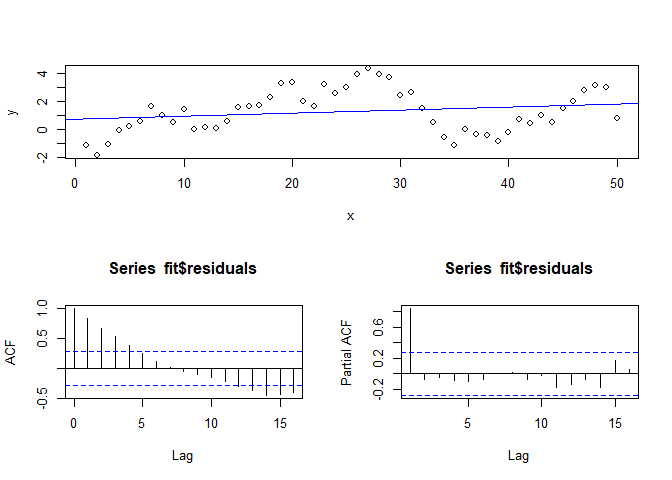
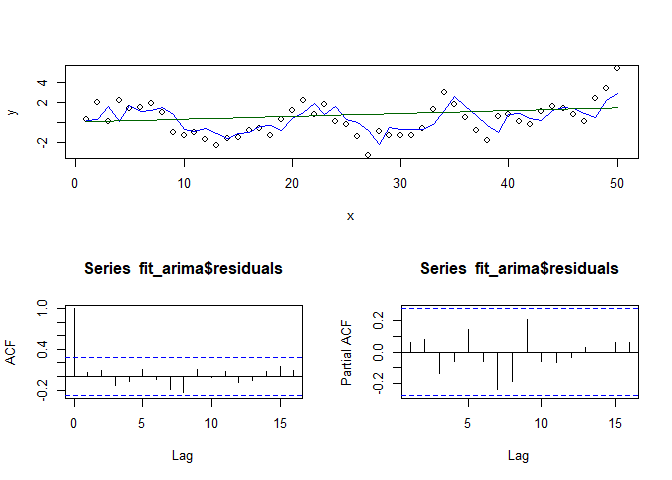
Visualize twenty series of slope with white noise error

diff --git a/src/2022-03-08_newey-west-heteroskedasticity-and-autocorrelation-robust-errors.md b/src/2022-03-08_newey-west-heteroskedasticity-and-autocorrelation-robust-errors.md
@@ -6,10 +6,12 @@ Nayef Ahmad
 -   [1 Overview](#overview)
 -   [2 Libraries](#libraries)
 -   [3 Functions](#functions)
--   [4 Example 1: White noise error (base
+-   [4 Data generation](#data-generation)
+    -   [4.1 White noise error](#white-noise-error)
+-   [5 Example 1: White noise error (base
     case)](#example-1-white-noise-error-base-case)
--   [5 Example 2: Autocorrelated error](#example-2-autocorrelated-error)
--   [6 Example 3: Pure ARIMA series as dependent
+-   [6 Example 2: Autocorrelated error](#example-2-autocorrelated-error)
+-   [7 Example 3: Pure ARIMA series as dependent
     variable](#example-3-pure-arima-series-as-dependent-variable)
 
 # 1 Overview
@@ -73,6 +75,39 @@ library(forecast)
     ##   as.zoo.data.frame zoo
 
 ``` r
+library(tidyverse)
+```
+
+    ## Warning: package 'tidyverse' was built under R version 4.0.3
+
+    ## -- Attaching packages --------------------------------------- tidyverse 1.3.0 --
+
+    ## v ggplot2 3.3.5     v purrr   0.3.4
+    ## v tibble  3.0.6     v dplyr   1.0.3
+    ## v tidyr   1.1.2     v stringr 1.4.0
+    ## v readr   1.4.0     v forcats 0.5.1
+
+    ## Warning: package 'ggplot2' was built under R version 4.0.5
+
+    ## Warning: package 'tibble' was built under R version 4.0.3
+
+    ## Warning: package 'tidyr' was built under R version 4.0.3
+
+    ## Warning: package 'readr' was built under R version 4.0.3
+
+    ## Warning: package 'purrr' was built under R version 4.0.3
+
+    ## Warning: package 'dplyr' was built under R version 4.0.3
+
+    ## Warning: package 'stringr' was built under R version 4.0.3
+
+    ## Warning: package 'forcats' was built under R version 4.0.3
+
+    ## -- Conflicts ------------------------------------------ tidyverse_conflicts() --
+    ## x dplyr::filter() masks stats::filter()
+    ## x dplyr::lag()    masks stats::lag()
+
+``` r
 par(mfrow = c(1,3))
 
 layout.matrix <- matrix(c(1, 2, 1, 3), nrow = 2, ncol = 2)
@@ -83,6 +118,38 @@ layout(mat = layout.matrix)
 # 3 Functions
 
 ``` r
+data_with_white_noise_error <- function(iterations = 20, 
+                                        n = 50){
+  # Create a dataframe of simulated X and Y data, for a given sample size.
+  # Each iteration is a single sample of size n for the given parameters.  
+  # We want several samples for each set of parameters. 
+  # 
+  # Args:
+  #   - iterations: number of datasets to create 
+  # 
+  # Returns: 
+  #   - df: dataframe with columns x and y
+  
+  slope <- .05 
+  
+  white_noise_residuals <- rnorm(n * iterations)
+  x <- rep(seq(n), iterations)
+  y <- slope * x + white_noise_residuals
+    
+  sample_id <- rep(seq(1:iterations), each = n)
+    
+  
+  df <- data.frame(sample_id, x , y)
+  
+  return(df)
+  
+}
+
+
+
+
+
+
 get_slope_line_vector_from_arima <- function(arima_model_fitted){
   # Args: 
   # - arima_model_fitted: Fitted ARIMA model, such as the models returned 
@@ -112,7 +179,45 @@ get_slope_line_vector_from_arima <- function(arima_model_fitted){
 }
 ```
 
-# 4 Example 1: White noise error (base case)
+# 4 Data generation
+
+Let’s visualize what these series look like, for a given n value.
+
+## 4.1 White noise error
+
+``` r
+seed <- 2022
+set.seed(seed)
+
+df <- data_with_white_noise_error(iterations = 20)
+
+df %>% 
+  ggplot(aes(x = x, y = y, group = sample_id)) + 
+  geom_line(alpha=.5) + 
+  facet_wrap(~sample_id) + 
+  theme_minimal()
+```
+
+![](2022-03-08_newey-west-heteroskedasticity-and-autocorrelation-robust-errors_files/figure-gfm/unnamed-chunk-3-1.png)<!-- -->
+
+Now let’s collect several different sample sizes into dataframes.
+
+``` r
+# df_white_noise <- multiple_n_white_noise_error(iterations = i, n_values = c(50, 100)
+
+
+# multiple_n_white_noise_error: 
+#   - for loops over n_values, calls data_with_white_noise_error()
+#   - collects all series, does group_by(n, iteration_num, ar_coef) %>% cur_group_id() 
+
+
+
+# df_arima_error <- data_with_arima_error(iterations = i, n = 50, ar_coeffecients = seq(0, .9, .2))
+
+# df_arima <- data_with_arima_response(iterations = i, n = 50, ar_coeffecients = seq(0, .9, .2))
+```
+
+# 5 Example 1: White noise error (base case)
 
 First set up the data.
 
@@ -141,7 +246,7 @@ acf(fit$residuals)
 pacf(fit$residuals)
 ```
 
-![](2022-03-08_newey-west-heteroskedasticity-and-autocorrelation-robust-errors_files/figure-gfm/unnamed-chunk-4-1.png)<!-- -->
+![](2022-03-08_newey-west-heteroskedasticity-and-autocorrelation-robust-errors_files/figure-gfm/unnamed-chunk-6-1.png)<!-- -->
 
 Model output, using standard and Newey-West HAC errors:
 
@@ -155,32 +260,32 @@ summary(fit) # standard estimates
     ## 
     ## Residuals:
     ##      Min       1Q   Median       3Q      Max 
-    ## -2.33544 -0.73963  0.06635  0.70760  2.75413 
+    ## -3.05902 -0.70452  0.06119  0.74459  2.80218 
     ## 
     ## Coefficients:
     ##             Estimate Std. Error t value Pr(>|t|)    
-    ## (Intercept) -0.61276    0.29923  -2.048   0.0461 *  
-    ## x            0.05600    0.01021   5.483 1.53e-06 ***
+    ## (Intercept)  0.35407    0.33548   1.055 0.296527    
+    ## x            0.04304    0.01145   3.759 0.000463 ***
     ## ---
     ## Signif. codes:  0 '***' 0.001 '**' 0.01 '*' 0.05 '.' 0.1 ' ' 1
     ## 
-    ## Residual standard error: 1.042 on 48 degrees of freedom
-    ## Multiple R-squared:  0.3851, Adjusted R-squared:  0.3723 
-    ## F-statistic: 30.07 on 1 and 48 DF,  p-value: 1.527e-06
+    ## Residual standard error: 1.168 on 48 degrees of freedom
+    ## Multiple R-squared:  0.2274, Adjusted R-squared:  0.2113 
+    ## F-statistic: 14.13 on 1 and 48 DF,  p-value: 0.0004626
 
 ``` r
 coeftest(fit, vcov = NeweyWest(fit, verbose = T))
 ```
 
     ## 
-    ## Lag truncation parameter chosen: 8
+    ## Lag truncation parameter chosen: 1
 
     ## 
     ## t test of coefficients:
     ## 
-    ##               Estimate Std. Error t value  Pr(>|t|)    
-    ## (Intercept) -0.6127589  0.1296910 -4.7248 2.044e-05 ***
-    ## x            0.0559995  0.0042046 13.3186 < 2.2e-16 ***
+    ##             Estimate Std. Error t value  Pr(>|t|)    
+    ## (Intercept) 0.354065   0.322398  1.0982 0.2775852    
+    ## x           0.043042   0.010292  4.1820 0.0001219 ***
     ## ---
     ## Signif. codes:  0 '***' 0.001 '**' 0.01 '*' 0.05 '.' 0.1 ' ' 1
 
@@ -199,7 +304,7 @@ acf(fit_arima$residuals)
 pacf(fit_arima$residuals)
 ```
 
-![](2022-03-08_newey-west-heteroskedasticity-and-autocorrelation-robust-errors_files/figure-gfm/unnamed-chunk-6-1.png)<!-- -->
+![](2022-03-08_newey-west-heteroskedasticity-and-autocorrelation-robust-errors_files/figure-gfm/unnamed-chunk-8-1.png)<!-- -->
 
 ARIMA model output:
 
@@ -211,20 +316,20 @@ summary(fit_arima)
     ## Regression with ARIMA(0,0,0) errors 
     ## 
     ## Coefficients:
-    ##       intercept   xreg
-    ##         -0.6128  0.056
-    ## s.e.     0.2932  0.010
+    ##         xreg
+    ##       0.0536
+    ## s.e.  0.0056
     ## 
-    ## sigma^2 = 1.086:  log likelihood = -71.99
-    ## AIC=149.98   AICc=150.5   BIC=155.71
+    ## sigma^2 = 1.368:  log likelihood = -78.28
+    ## AIC=160.56   AICc=160.81   BIC=164.38
     ## 
     ## Training set error measures:
-    ##                        ME     RMSE       MAE      MPE    MAPE      MASE
-    ## Training set 5.224156e-14 1.021065 0.8298999 91.17292 124.853 0.6877414
-    ##                     ACF1
-    ## Training set -0.09153191
+    ##                      ME     RMSE       MAE       MPE     MAPE      MASE
+    ## Training set 0.08588708 1.157955 0.9312607 -31.03914 104.8873 0.7075574
+    ##                      ACF1
+    ## Training set -0.006382735
 
-# 5 Example 2: Autocorrelated error
+# 6 Example 2: Autocorrelated error
 
 In cases where non-arima fit gives almost same estimate as arima fit,
 but p-value of t-test for coefficient is far from significant, I would
@@ -266,7 +371,7 @@ acf(fit$residuals)
 pacf(fit$residuals)
 ```
 
-![](2022-03-08_newey-west-heteroskedasticity-and-autocorrelation-robust-errors_files/figure-gfm/unnamed-chunk-9-1.png)<!-- -->
+![](2022-03-08_newey-west-heteroskedasticity-and-autocorrelation-robust-errors_files/figure-gfm/unnamed-chunk-11-1.png)<!-- -->
 
 Model output, using standard and Newey-West HAC errors:
 
@@ -342,7 +447,7 @@ acf(fit_arima$residuals)
 pacf(fit_arima$residuals)
 ```
 
-![](2022-03-08_newey-west-heteroskedasticity-and-autocorrelation-robust-errors_files/figure-gfm/unnamed-chunk-11-1.png)<!-- -->
+![](2022-03-08_newey-west-heteroskedasticity-and-autocorrelation-robust-errors_files/figure-gfm/unnamed-chunk-13-1.png)<!-- -->
 
 In this specific example, where `seed =` 2, we can see that the OLS fit
 and the (OLS + HAC) fit find the estimate a slope value close to the
@@ -353,7 +458,7 @@ significant.
 On the other hand, the ARIMA fit includes the slope, and the estimate is
 relatively close to the true value.
 
-# 6 Example 3: Pure ARIMA series as dependent variable
+# 7 Example 3: Pure ARIMA series as dependent variable
 
 First set up the data.
 
@@ -383,7 +488,7 @@ acf(fit$residuals)
 pacf(fit$residuals)
 ```
 
-![](2022-03-08_newey-west-heteroskedasticity-and-autocorrelation-robust-errors_files/figure-gfm/unnamed-chunk-13-1.png)<!-- -->
+![](2022-03-08_newey-west-heteroskedasticity-and-autocorrelation-robust-errors_files/figure-gfm/unnamed-chunk-15-1.png)<!-- -->
 
 Model output, using standard and Newey-West HAC errors:
 
@@ -457,4 +562,4 @@ acf(fit_arima$residuals)
 pacf(fit_arima$residuals)
 ```
 
-![](2022-03-08_newey-west-heteroskedasticity-and-autocorrelation-robust-errors_files/figure-gfm/unnamed-chunk-15-1.png)<!-- -->
+![](2022-03-08_newey-west-heteroskedasticity-and-autocorrelation-robust-errors_files/figure-gfm/unnamed-chunk-17-1.png)<!-- -->

diff --git a/src/2022-03-04_inadequacy-of-t-tests-for-time-series-data.md b/src/2022-03-04_inadequacy-of-t-tests-for-time-series-data.md
@@ -69,7 +69,7 @@ Here we have an `AR(1)` model with no “intercept” or starting term. By
 definition, it is weakly stationary, with mean equal to zero. That is,
 *μ* = 0.
 
-The sample mean here is -0.0216286.
+The sample mean here is 0.0945081.
 
 We can do a t-test to assess the null hypothesis
 *H*<sub>0</sub> : *μ* = 0 vs alternative hypothesis
@@ -82,7 +82,7 @@ alpha <- .05
 reject_null <- t_test_p_value < alpha
 ```
 
-The t-test gives a p-value of 0.8397995, which in this case means
+The t-test gives a p-value of 0.385277, which in this case means
 `reject_null` = FALSE.
 
 # 4 Simulation of a large number of t-tests
@@ -106,7 +106,7 @@ prop_false_rejection <- mean(sim_data < alpha)
 The Type 1 error rate is the proportion of time the p-value is less than
 `alpha` under the null hypothesis.
 
-**Here, the value of the Type 1 error rate is 0.2651. This is much
+**Here, the value of the Type 1 error rate is 0.2605. This is much
 higher than `alpha`, which is the “advertised” Type 1 error rate.**
 
 # 5 Comparison using normally distributed data
@@ -121,7 +121,7 @@ sim_data <- replicate(10000, {
 prop_false_rejection_normal <- mean(sim_data < .05)
 ```
 
-Here the t-test performs well. The Type 1 error rate is 0.0479
+Here the t-test performs well. The Type 1 error rate is 0.0471
 
 # 6 Working with residuals from fitted ARIMA model
 
@@ -163,7 +163,7 @@ t_test_p_value <- t.test(shifted_residuals, mu = 0)$p.value
 reject_null <- t_test_p_value < alpha
 ```
 
-In this case, the p-value is 0.7117781, and `reject_null` is FALSE
+In this case, the p-value is 0.7403695, and `reject_null` is FALSE
 
 ## 6.1 Simulation over many iterations
 
@@ -193,5 +193,5 @@ prop_false_rejection <- mean(sim_data < alpha)
 ```
 
 **The Type 1 error rate after removing some time series structure is
-0.145. Although this is still inflated, it is an improvement over the
+0.141. Although this is still inflated, it is an improvement over the
 uncorrected t-test result.**
